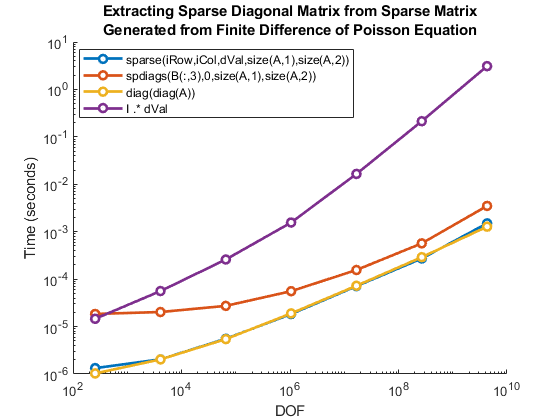
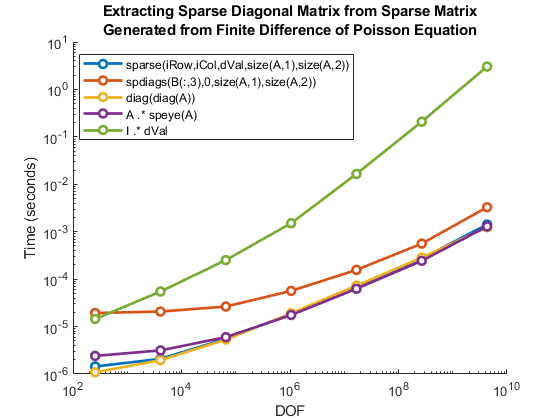
Added additional sparse diagonal algorithm

diff --git a/src/MATLAB/utility/algorithmBenchmarks/SparseDiagonal.m b/src/MATLAB/utility/algorithmBenchmarks/SparseDiagonal.m
@@ -15,11 +15,13 @@ for ii = 1:length(N)
     D1 = @() sparse(iRow,iCol,dVal,size(A,1),size(A,2));
     D2 = @() spdiags(B(:,3),0,size(A,1),size(A,2));
     D3 = @() diag(diag(A));
-    D4 = @() I .* dVal;
+    D4 = @() A .* speye(length(A));
+    D5 = @() I .* dVal;
     t{1}(ii) = timeit(D1,1);
     t{2}(ii) = timeit(D2,1);
     t{3}(ii) = timeit(D3,1);
     t{4}(ii) = timeit(D4,1);
+    t{5}(ii) = timeit(D5,1);
 end
 maxNumCompThreads('automatic');
 %%
@@ -28,11 +30,13 @@ ax = gca;
 method{1} = 'sparse(iRow,iCol,dVal,size(A,1),size(A,2))';
 method{2} = 'spdiags(B(:,3),0,size(A,1),size(A,2))';
 method{3} = 'diag(diag(A))';
-method{4} = 'I .* dVal';
+method{4} = 'A .* speye(A)';
+method{5} = 'I .* dVal';
 plot(matSize.^2,t{1},'LineWidth',2,'Marker','o','MarkerFaceColor','Auto','DisplayName',method{1})
 plot(matSize.^2,t{2},'LineWidth',2,'Marker','o','MarkerFaceColor','Auto','DisplayName',method{2})
 plot(matSize.^2,t{3},'LineWidth',2,'Marker','o','MarkerFaceColor','Auto','DisplayName',method{3})
 plot(matSize.^2,t{4},'LineWidth',2,'Marker','o','MarkerFaceColor','Auto','DisplayName',method{4})
+plot(matSize.^2,t{5},'LineWidth',2,'Marker','o','MarkerFaceColor','Auto','DisplayName',method{5})
 title({'Extracting Sparse Diagonal Matrix from Sparse Matrix';...
     'Generated from Finite Difference of Poisson Equation'})
 xlabel('DOF');
